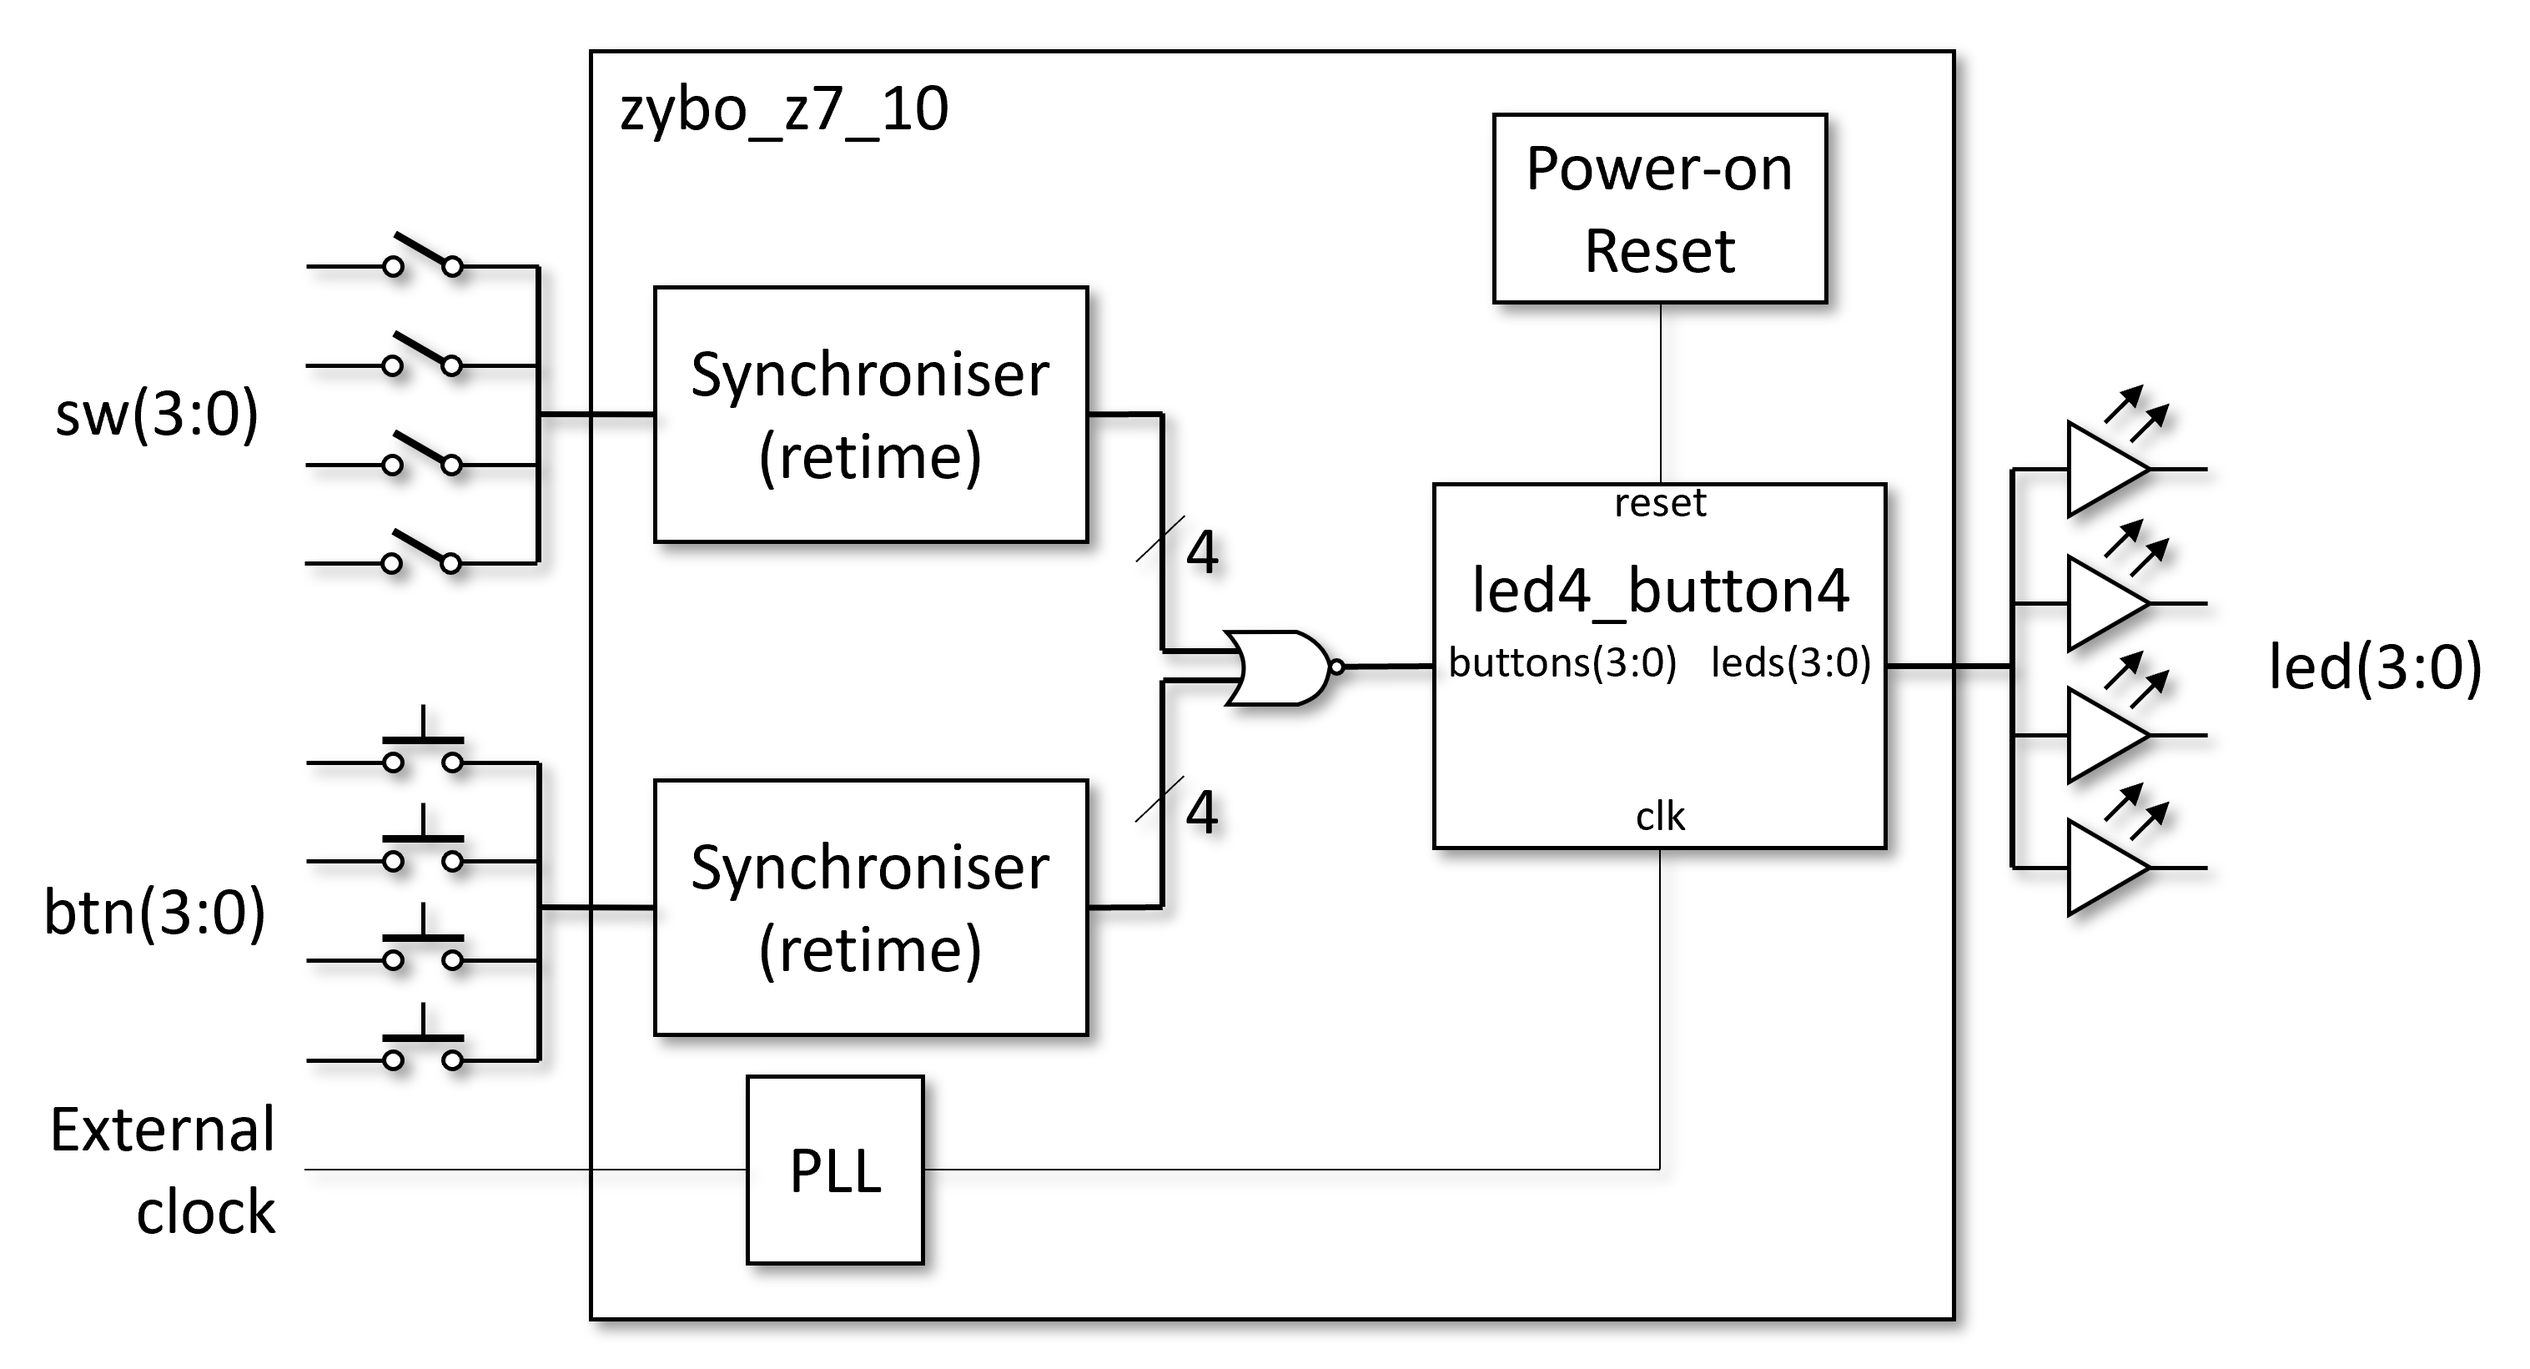
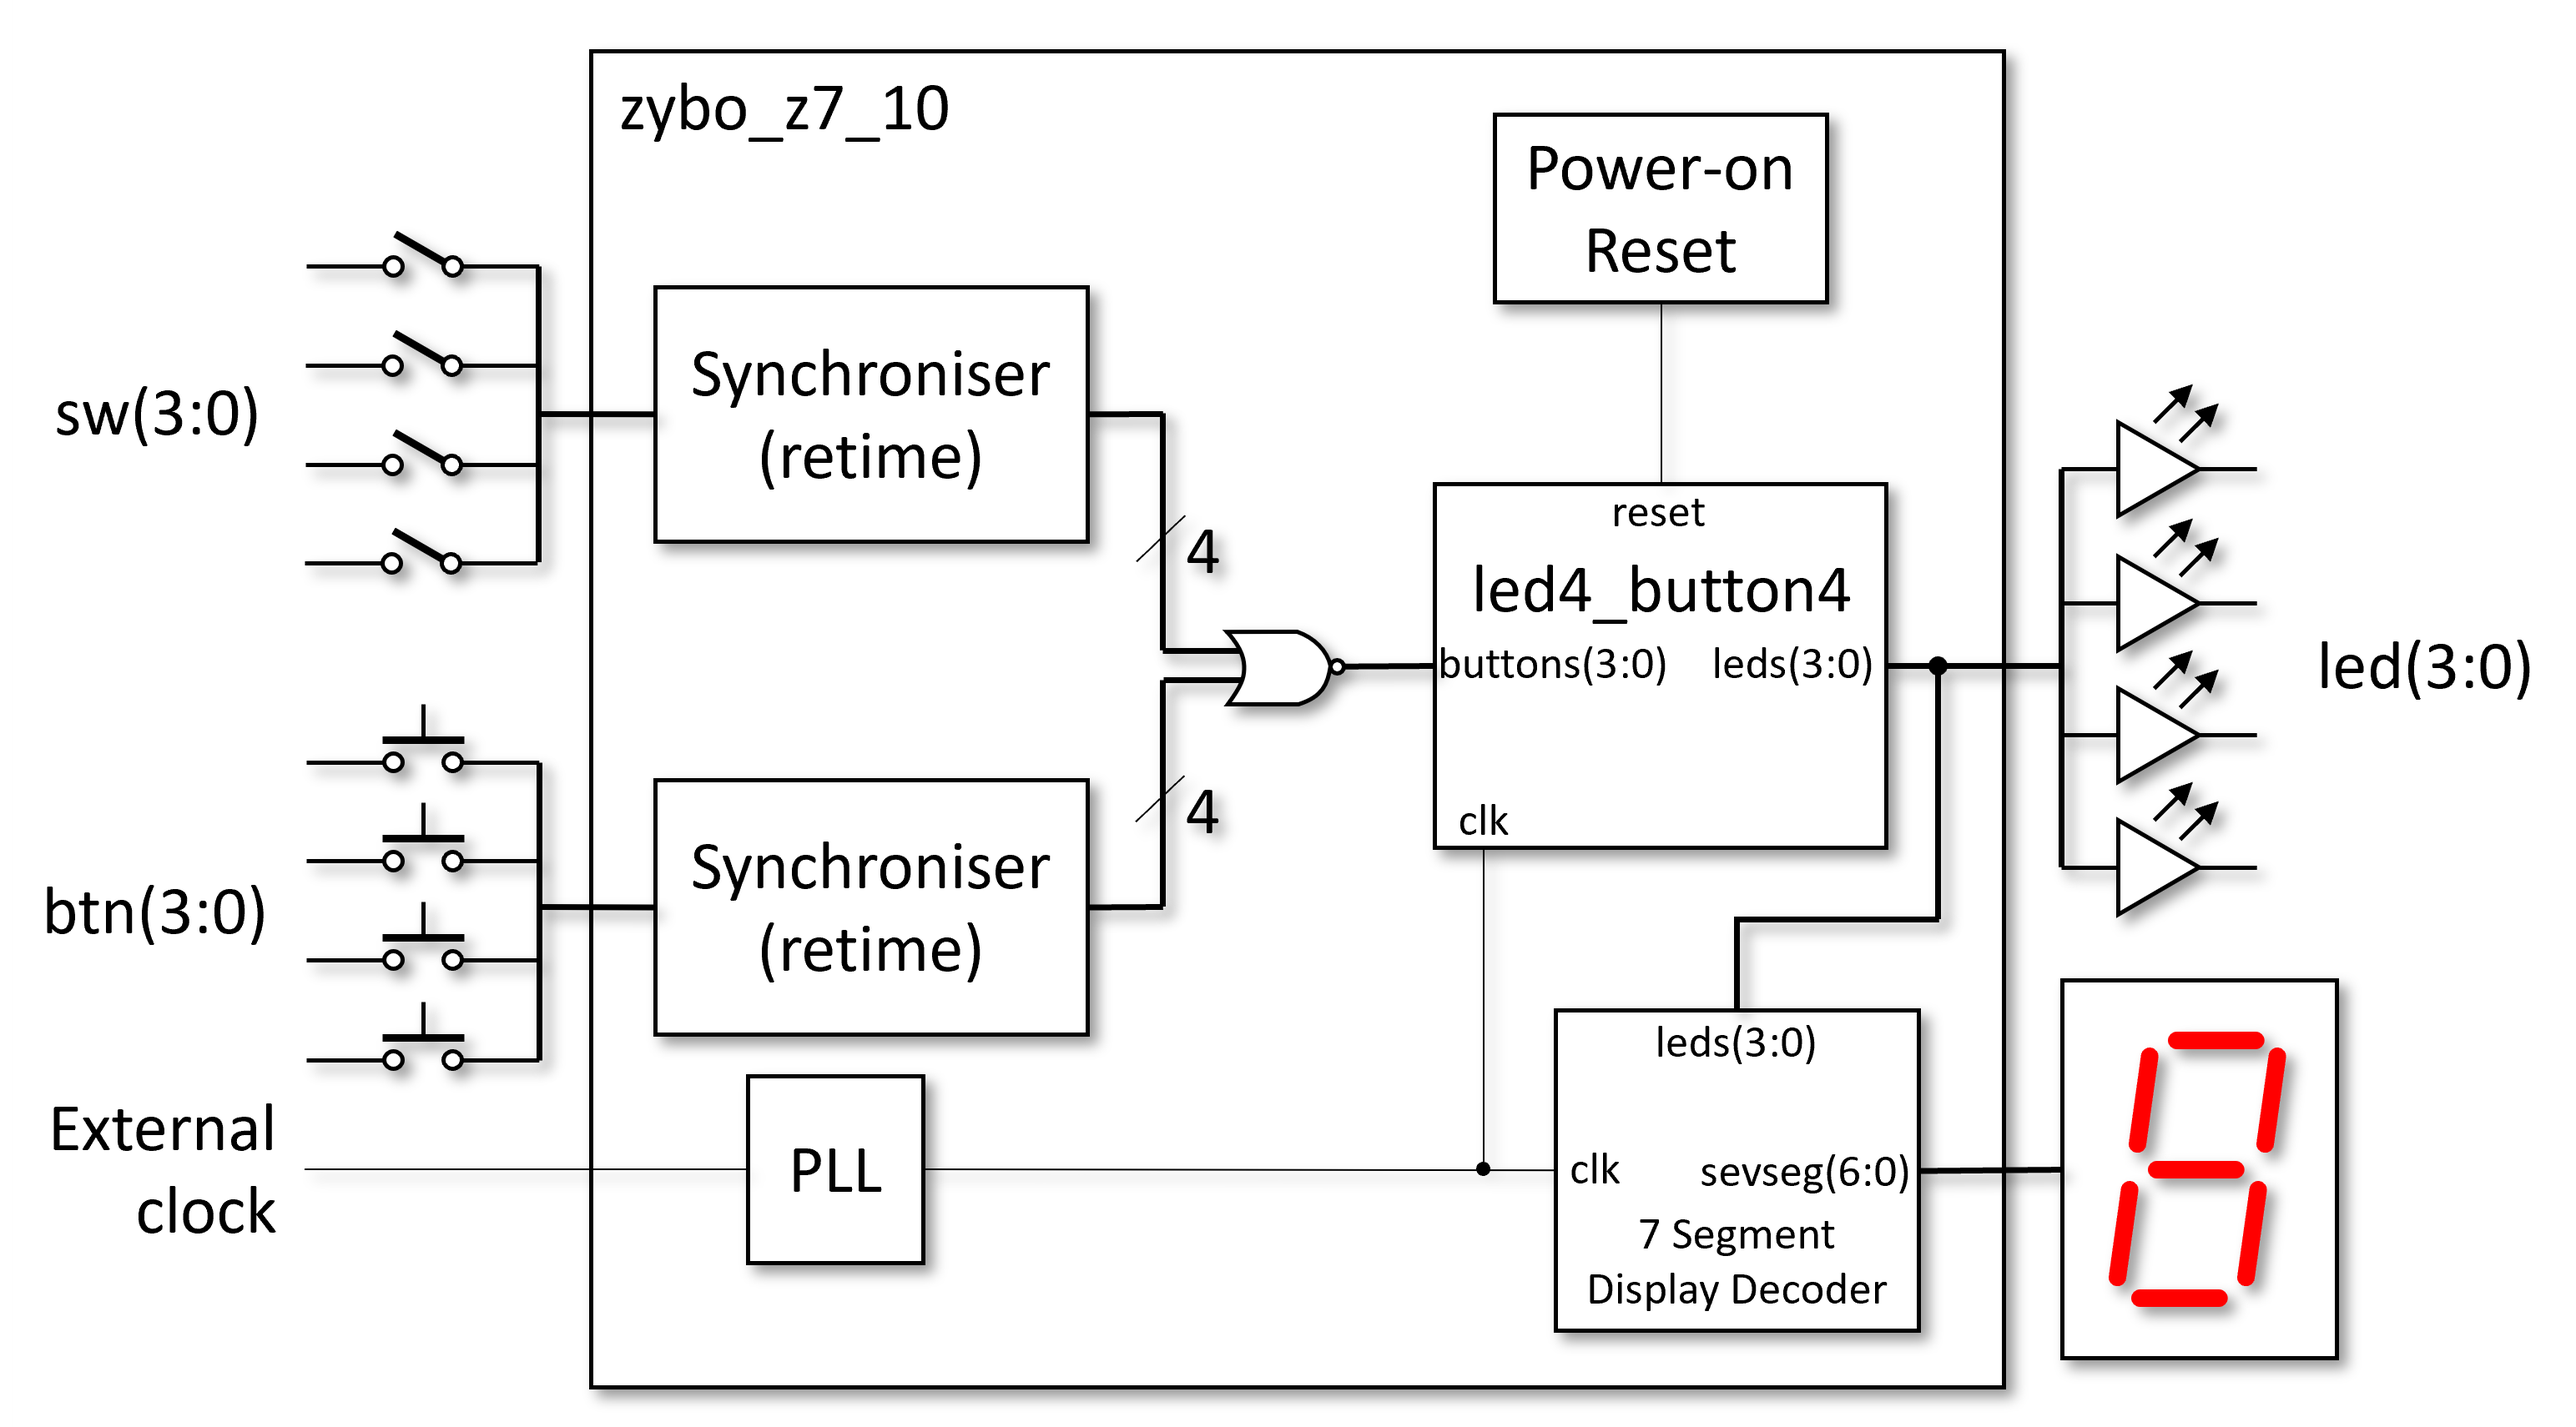
Added 7 segment display to top level architecture
Fixed a broken link to the dimmer controller non-demo.

diff --git a/docs/README.md b/docs/README.md
@@ -109,7 +109,7 @@ Demonstration designs are provided in order of incremental difficulty (in the ma
 7. The **[Knight Rider](knight_rider.md) KITT car** bonnet light sequence from the 1980's television series.
 8. **[Traffic lights](traffic_lights.md)** come in two variations; the standard junction and the Pelicon crossing. The latter (of course) includes a flashing yellow stage.
   ![Traffic Lights](./images/sim_controls/traffic_lights_demo.gif)
-9. **[Dimmer Controller](dimmer_controller.md)** two buttons increase or decrease a control value, e.g. the brightness of a room light, with the LEDs signifying the size of the value being controlled. (No solution provided.)
+9. **[Dimmer Controller](dimmer_control.md)** two buttons increase or decrease a control value, e.g. the brightness of a room light, with the LEDs signifying the size of the value being controlled. (No solution provided.)
 10. **[Linear Feedback Shift Register](lfsr.md)** in two variations, internal and external feedback. This is included for something more taxing for the more capable student.
 11. **[RISC CPU](risc_cpu.md)** - A simple "Reduce Instruction Set Computer" "Central Processing Unit" to read the buttons and drive the LEDs. Now you can re-write all the examples in assembly code!
 
@@ -143,4 +143,5 @@ These are split into separate pages as follows:
     * Execution on the target [development board](development_board.md).
 
 ## References
-  * [Script Reference](scripts.md)
+
+* [Script Reference](scripts.md)
